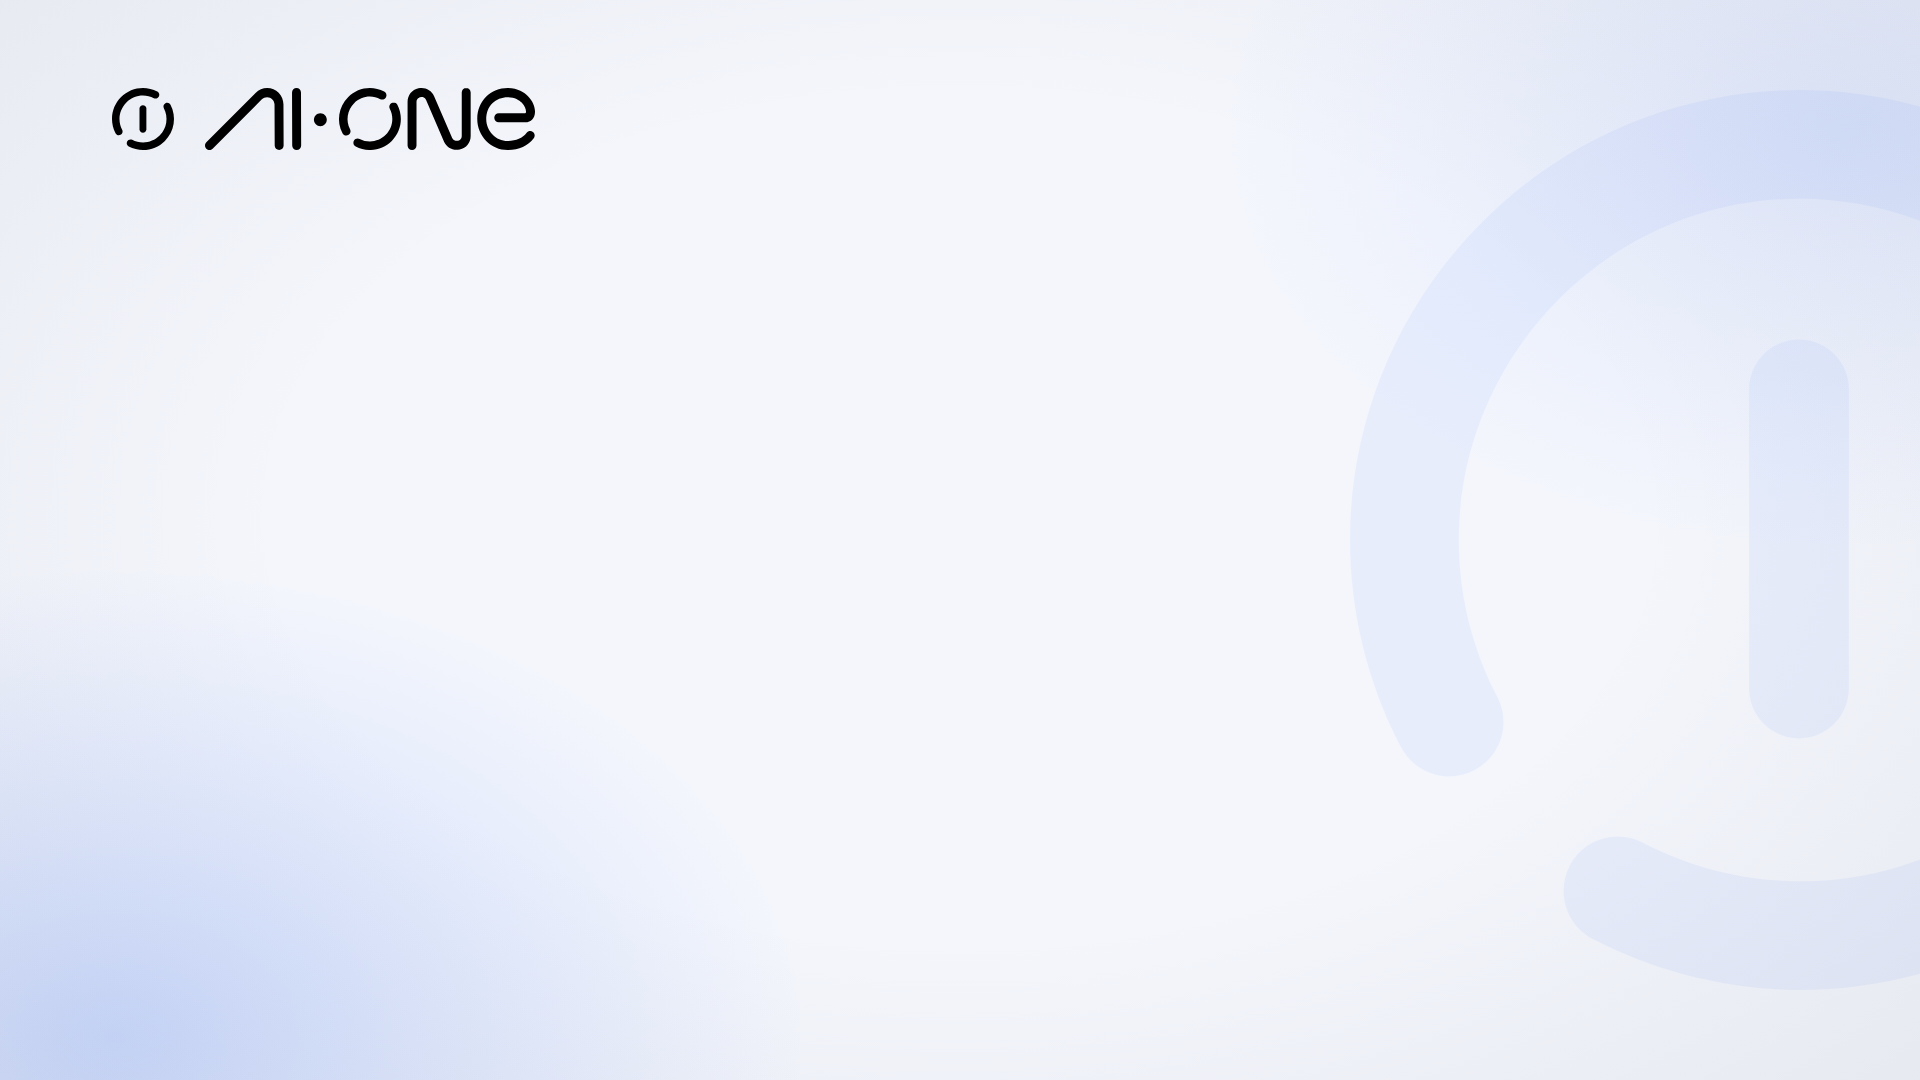
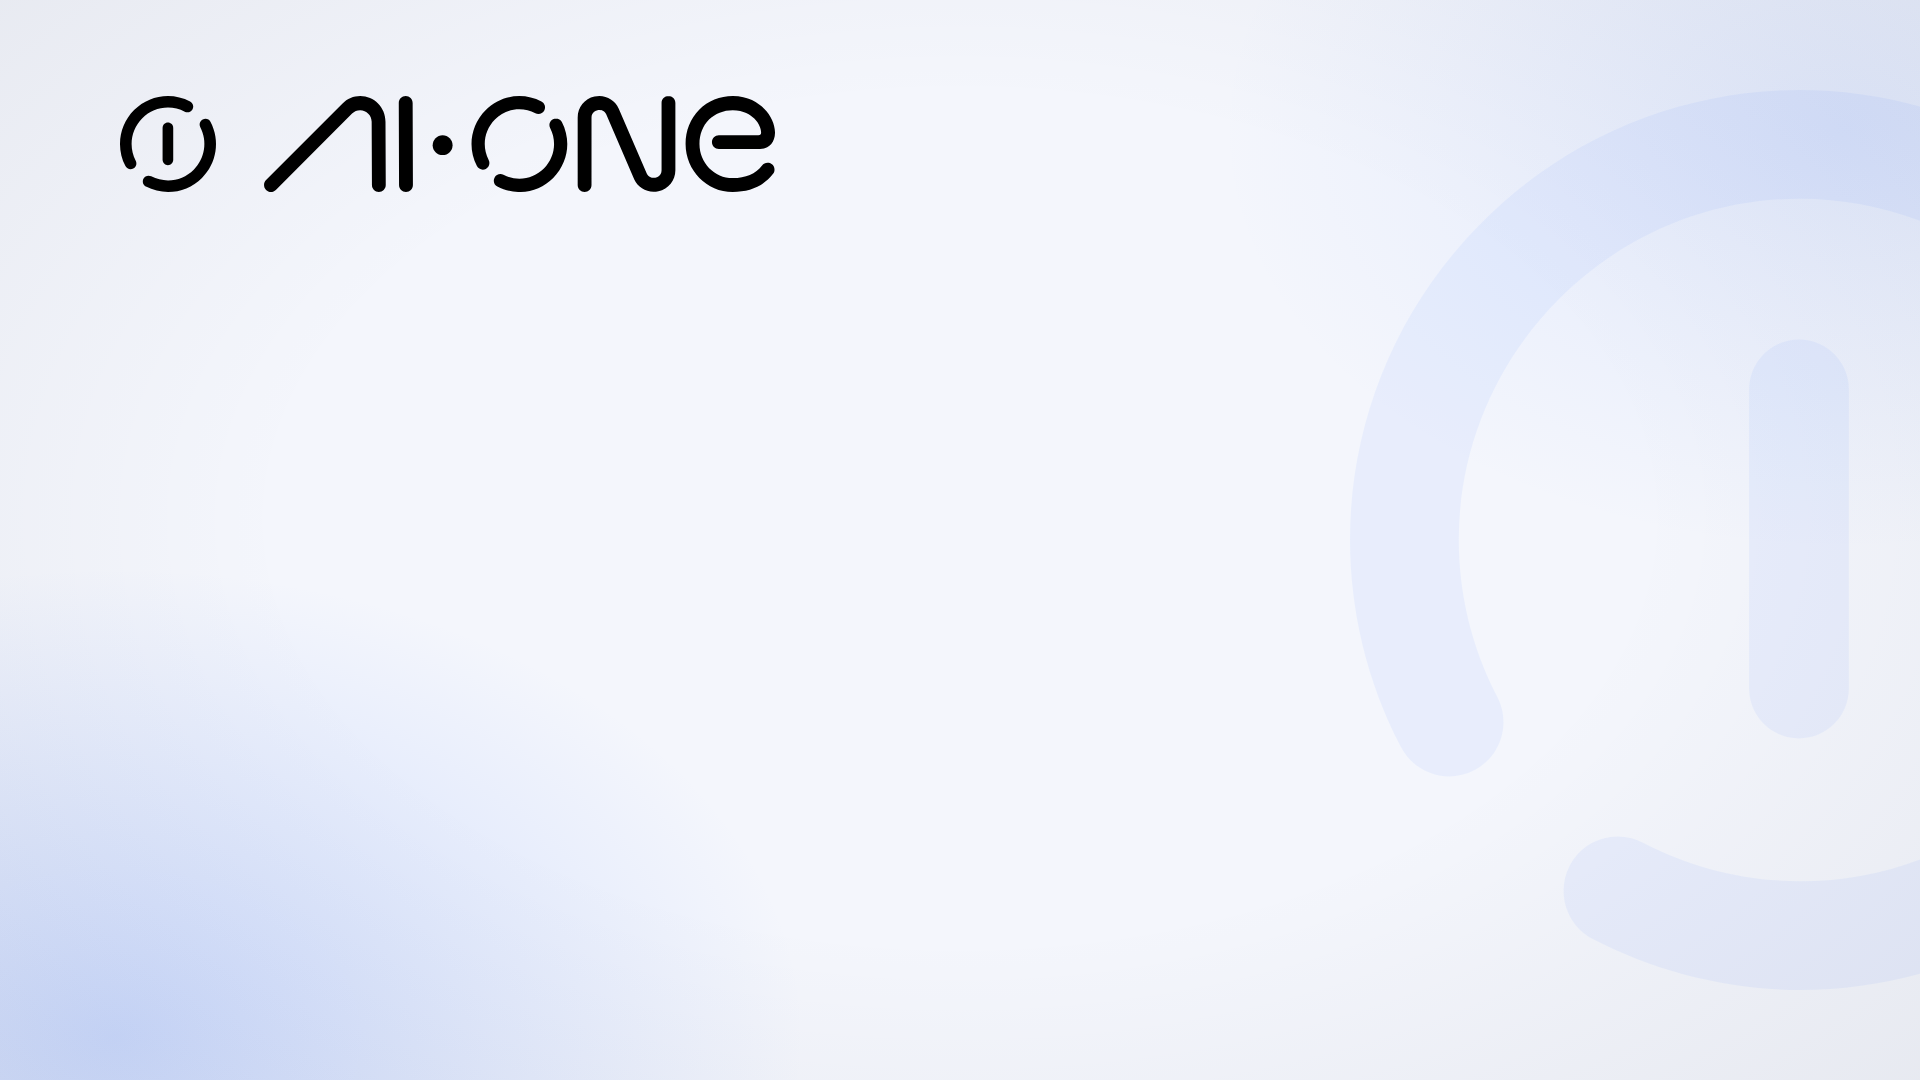
Enlarge the lockup for legibility over the video codec
The background is composited into the camera feed and transmitted as H.264,
commonly at 720p, so the delivered stream - not the source PNG - is the
resolution ceiling. Exporting larger files cannot fix a soft logo; stroke
weight can.

Scale the lockup from 62px to 96px at design scale (34% of frame width), so
its strokes survive the downscale to 720p. Verified by resampling the 4K
render to 1280x720 and inspecting the result at 1:1.

Document the pipeline in the README, including enabling HD video.

Claude-Session: https://claude.ai/code/session_01RmgrkJSf4A9B1oybvDBKN9

Changed region(s): [[0.0312, 0.0611, 0.4062, 0.1833]]

diff --git a/zoom-backgrounds/background.html b/zoom-backgrounds/background.html
@@ -79,16 +79,16 @@
   /* --- content ----------------------------------------------------------- */
   .lockup {
     position: absolute;
-    top: 88px;
-    left: 112px;
-    height: 62px;
+    top: 96px;
+    left: 120px;
+    height: 96px;
   }
   .lockup img { height: 100%; width: auto; display: block; }
 
   .tagline {
     position: absolute;
-    top: 178px;
-    left: 114px;
+    top: 222px;
+    left: 122px;
     display: flex;
     align-items: center;
     gap: 18px;

diff --git a/zoom-backgrounds/README.md b/zoom-backgrounds/README.md
@@ -34,6 +34,23 @@ There's deliberately no texture or pattern. Fine repeating detail aliases once
 Zoom rescales and re-compresses the image, which shows up on camera as pixel
 noise; flat gradients survive that a lot better.
 
+## Why a bigger file doesn't make the logo sharper
+
+Nobody on the call ever sees this PNG. Zoom composites it into your camera feed
+and ships the result through the H.264 video encoder — often at 720p unless HD
+is switched on. That stream, not the source file, is the resolution ceiling, so
+a 4K or 8K export changes nothing about how crisp the logo looks.
+
+What does help is stroke weight. The lockup is sized at 34% of frame width so
+its strokes stay several pixels thick even after the downscale to 720p, which is
+what keeps thin geometric linework from turning to mush.
+
+Two things worth doing on your end:
+
+- **Settings → Video → Enable HD** raises the transmitted resolution.
+- Good, even lighting on your face. The encoder spends its bitrate where there's
+  motion, so a noisy dim webcam image starves the static background of bits.
+
 ## Logo assets
 
 `logo/` holds the mark and the full AI·ONE lockup in black, white and brand blue
